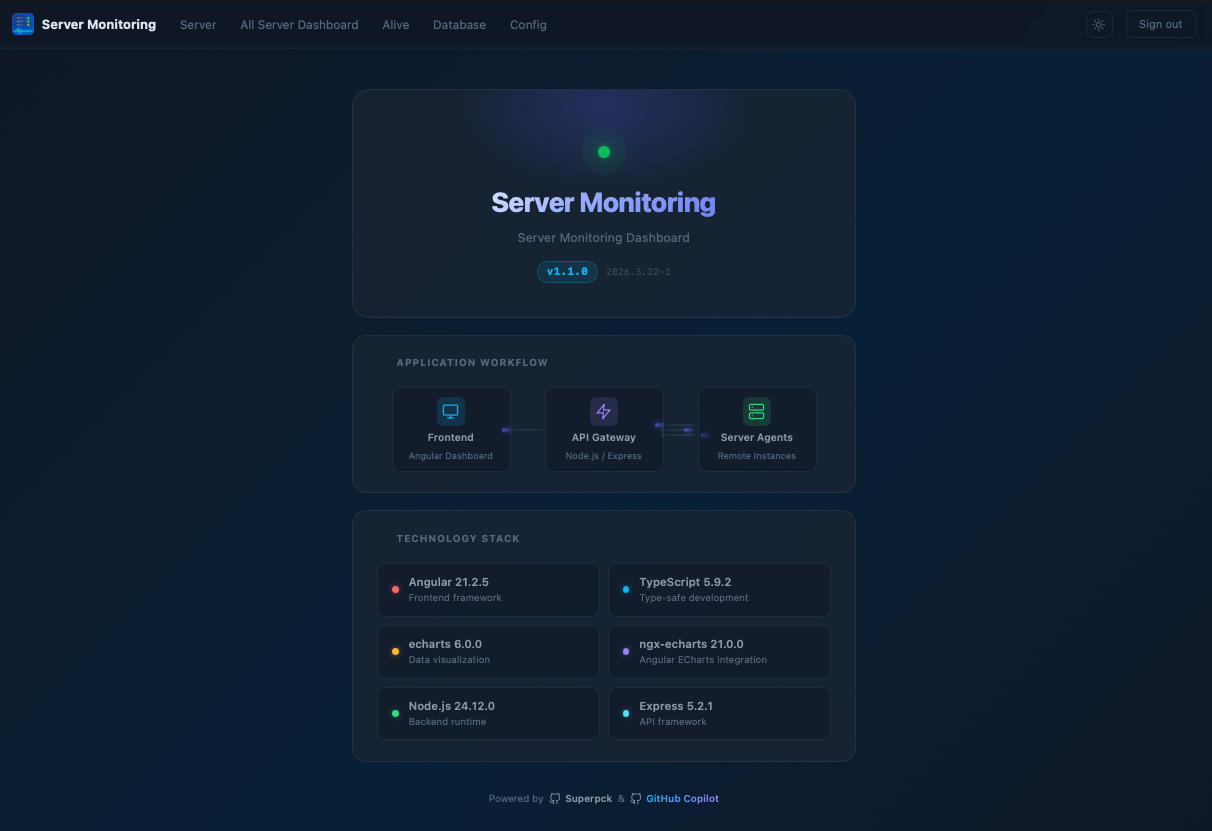
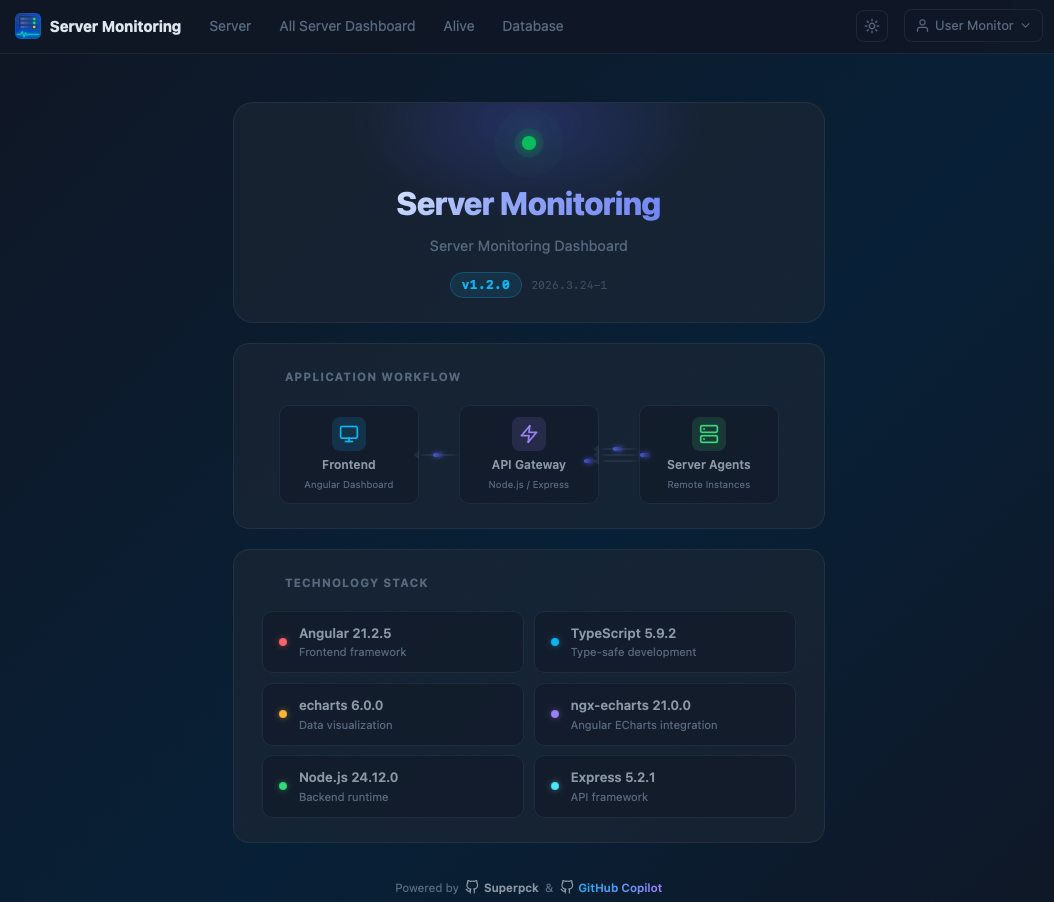
update USER_GUIDE

diff --git a/frontend/src/app/components/server-config/server-config.ts b/frontend/src/app/components/server-config/server-config.ts
@@ -16,6 +16,7 @@ import {
 } from '../../services/server-config.service';
 
 interface GroupForm {
+  groupid: number;
   group: string;
   detail: string;
 }
@@ -58,7 +59,7 @@ export class ServerConfig implements OnInit {
   // ── Group modal ──────────────────────────────────────────────────────────
   protected readonly groupModalOpen = signal(false);
   protected editingGroupId = signal<number | null>(null);
-  protected groupForm = signal<GroupForm>({ group: '', detail: '' });
+  protected groupForm = signal<GroupForm>({ groupid: 0, group: '', detail: '' });
 
   // ── Agent modal ──────────────────────────────────────────────────────────
   protected readonly agentModalOpen = signal(false);
@@ -94,13 +95,13 @@ export class ServerConfig implements OnInit {
   // ── Group actions ─────────────────────────────────────────────────────────
   protected openAddGroup(): void {
     this.editingGroupId.set(null);
-    this.groupForm.set({ group: '', detail: '' });
+    this.groupForm.set({ groupid: 0, group: '', detail: '' });
     this.groupModalOpen.set(true);
   }
 
   protected openEditGroup(g: ServerConfigGroup): void {
     this.editingGroupId.set(g.groupid);
-    this.groupForm.set({ group: g.group, detail: g.detail });
+    this.groupForm.set({ groupid: g.groupid, group: g.group, detail: g.detail });
     this.groupModalOpen.set(true);
   }
 

diff --git a/frontend/src/app/components/server-management/server-management.ts b/frontend/src/app/components/server-management/server-management.ts
@@ -17,12 +17,13 @@ import { OverviewMonitor } from '../overview-monitor/overview-monitor';
 import { ServerContextService, ServerGroup, ServerItem } from './server-context.service';
 import { PkIcon } from '../../shares/pk-icon';
 import { PkTabs, PkTabPanel, type PkTab } from '../../shares/pk-tabs';
+import { CommonModule } from '@angular/common';
 
 const SIDEBAR_BREAKPOINT = 1024;
 
 @Component({
   selector: 'app-server-management',
-  imports: [ServerMonitor, DbMonitor, Pm2Monitor, NginxMonitor, SecureMonitor, OverviewMonitor, PkIcon, PkTabs, PkTabPanel],
+  imports: [CommonModule, ServerMonitor, DbMonitor, Pm2Monitor, NginxMonitor, SecureMonitor, OverviewMonitor, PkIcon, PkTabs, PkTabPanel],
   templateUrl: './server-management.html',
   styleUrl: './server-management.css',
   changeDetection: ChangeDetectionStrategy.OnPush,
@@ -37,8 +38,8 @@ export class ServerManagement implements OnInit {
   ngOnInit(): void {
     this.service.getConfigServer().then(config => {
       this.groups.set(
-        config.map(({ group, agents }) => ({
-          group,
+        config.map(({ groupid, group, agents }) => ({
+          groupid, group,
           agents: (agents ?? []).map(({ name, url, agentid }) => ({ name, url, agentid })),
         }))
       );

diff --git a/frontend/src/app/components/server-config/server-config.html b/frontend/src/app/components/server-config/server-config.html
@@ -24,11 +24,11 @@
         <div class="sc-group-card"
           [class.sc-group-collapsed]="collapsedGroups().has(group.groupid)"
           [class.sc-group-card--dragging]="dragGroupIdx() === $index"
-          [class.sc-group-card--drag-over]="dragOverGroupIdx() === $index && dragGroupIdx() !== $index">
-          <div class="sc-group-header"
-            (dragover)="onGroupDragOver($event, $index)"
-            (drop)="onGroupDrop($event, $index)"
-            (dragend)="onGroupDragEnd()">
+          [class.sc-group-card--drag-over]="dragOverGroupIdx() === $index && dragGroupIdx() !== $index"
+          (dragover)="onGroupDragOver($event, $index)"
+          (drop)="onGroupDrop($event, $index)"
+          (dragend)="onGroupDragEnd()">
+          <div class="sc-group-header">
             <div class="sc-group-left">
               <span class="drag-handle" draggable="true"
                 (dragstart)="onGroupDragStart($event, $index)"

diff --git a/frontend/src/app/components/alive/alive.ts b/frontend/src/app/components/alive/alive.ts
@@ -29,6 +29,7 @@ export interface AliveAgent {
 }
 
 export interface AliveGroup {
+  groupid?: number;
   group: string;
   detail: string;
   agents: AliveAgent[];
@@ -64,7 +65,8 @@ export class Alive implements OnInit {
     let config = await this.service.getConfigServer();
     config = config.filter(c => c.agents && c.agents.length > 0);
     this.groups.set(
-      config.map(({ group, detail, agents }) => ({
+      config.map(({ groupid, group, detail, agents }) => ({
+        groupid,
         group,
         detail,
         agents: agents.map(({ name: key, detail, url: baseUrl }) => ({

diff --git a/frontend/src/app/components/server-management/server-management.html b/frontend/src/app/components/server-management/server-management.html
@@ -21,10 +21,10 @@
       <span class="server-count">{{ totalAgents() }}</span>
     </div>
     <div class="server-list">
-      @for (group of groups(); track group.group) {
+      @for (group of groups(); track group.groupid) {
       <div class="server-group">
         <div class="server-group-label">
-          <span>{{ group.group }}</span>
+          <span style="margin-left: 4px;">{{ group.group }}</span>
           <span class="server-count">{{ group.agents.length }}</span>
         </div>
         @if (group.agents.length > 0) {

diff --git a/frontend/src/app/components/server-management/server-context.service.ts b/frontend/src/app/components/server-management/server-context.service.ts
@@ -7,6 +7,7 @@ export interface ServerItem {
 }
 
 export interface ServerGroup {
+  groupid?: number;
   group: string;
   agents: ServerItem[];
 }

diff --git a/documents/USER_GUIDE.md b/documents/USER_GUIDE.md
@@ -43,6 +43,7 @@ Enter your **username** and **password**, then click **Login**.
 > **Important:** Change the default passwords immediately after first login. The `superadmin` account is configured separately in the server environment.
 
 After a successful login the application redirects you to **Server Management**.
+
 > ![Login Screen](images/login_screen.png)
 
 
@@ -63,6 +64,8 @@ The sidebar (or top navigation bar) provides links to all sections of the applic
 | **Server Config** | Manage server groups and agents | Admin only |
 | **User Management** | Create/edit users and access control | User Admin only |
 | **About** | Application version and tech-stack info | Everyone |
+
+> ![Top Menu](images/topnav_menu.png)
 
 The application supports light and dark themes. Use the theme toggle (sun/moon icon) in the navigation bar to switch.
 
@@ -152,6 +155,8 @@ Requires `SECURE_LOG_ENABLED=true` on the agent.
 | macOS | auth, system, system-file |
 | Windows | security, system |
 
+> ![Server Management](images/server_management.png)
+
 ---
 
 ## 4. Alive Monitor
@@ -162,6 +167,9 @@ The **Alive** page gives you a bird's-eye view of every registered agent.
 - Each agent shows its **online / offline** status (checked against the agent's `/system/health` endpoint).
 - The page **auto-refreshes every 10 seconds** so you can see changes without reloading.
 - An offline agent is highlighted in red to draw immediate attention.
+
+> ![Server Alive](images/server_alive_horizontal.png)
+> ![Server Alive](images/server_alive_vertical.png)
 
 ---
 
@@ -181,6 +189,8 @@ Servers are organised into **Groups** (e.g. Production, Staging, Internal Tools)
 - Drag the **⠿ handle** on a group card to reorder groups. The order is saved automatically.
 - Click the collapse arrow to show/hide the agents inside a group.
 
+> ![Agent List](images/agent_list.png)
+
 ### Agents
 
 Each group can contain one or more **Agents** (individual servers running `server-api`).
@@ -195,6 +205,8 @@ Each group can contain one or more **Agents** (individual servers running `serve
 - Click the **× circle** icon to delete an agent.
 - Drag the **⠿ handle** on an agent row to reorder agents within the group.
 - Use the **toggle switch** in the Status column to activate or deactivate an agent without deleting it. Inactive agents are hidden from the monitoring views.
+
+> ![Agent Edit](images/agent_edit.png)
 
 ---
 
@@ -215,6 +227,9 @@ The **User Management** page lists all registered accounts.
 - **Edit User** — click the **pencil** icon on a user row to update name, role, user_admin flag, or password (leave password blank to keep the existing one).
 - **Delete User** — click the **× circle** icon. You cannot delete the `superadmin` account.
 
+> ![user list](images/userlist.png)
+
+
 ### 6.2 User Roles
 
 | Role | Description |
@@ -225,6 +240,8 @@ The **User Management** page lists all registered accounts.
 The **User Admin** flag is independent of role — a `monitor` user can be granted User Admin rights to manage other accounts without gaining admin-level server access.
 
 The **superadmin** account is defined in the server `.env` file (`SUPERADMIN_PASSWORD`). It is always an admin, does not appear in the database, and cannot be deleted from the UI.
+
+> ![user edit](images/user_edit.png)
 
 ### 6.3 Agent Access Control
 
@@ -242,6 +259,8 @@ By default every non-admin user can see **all agents**. You can restrict a user 
    - A group checkbox shows a **dash (—)** when only some of its agents are selected.
 5. Click **Save**.
 
+> ![user access](images/user_access.png)
+
 The restriction applies immediately. The user will only see the permitted agents in the Server Management sidebar and Alive monitor.
 
 ---
@@ -254,6 +273,8 @@ The **About** page displays:
 - Architecture workflow diagram (Frontend → API Gateway → Server Agents)
 - Technology stack (Angular, TypeScript, Node.js, Express, ECharts, ngx-echarts)
 - Links to relevant project sites
+
+> ![About](images/about_screen.png)
 
 ---
 
